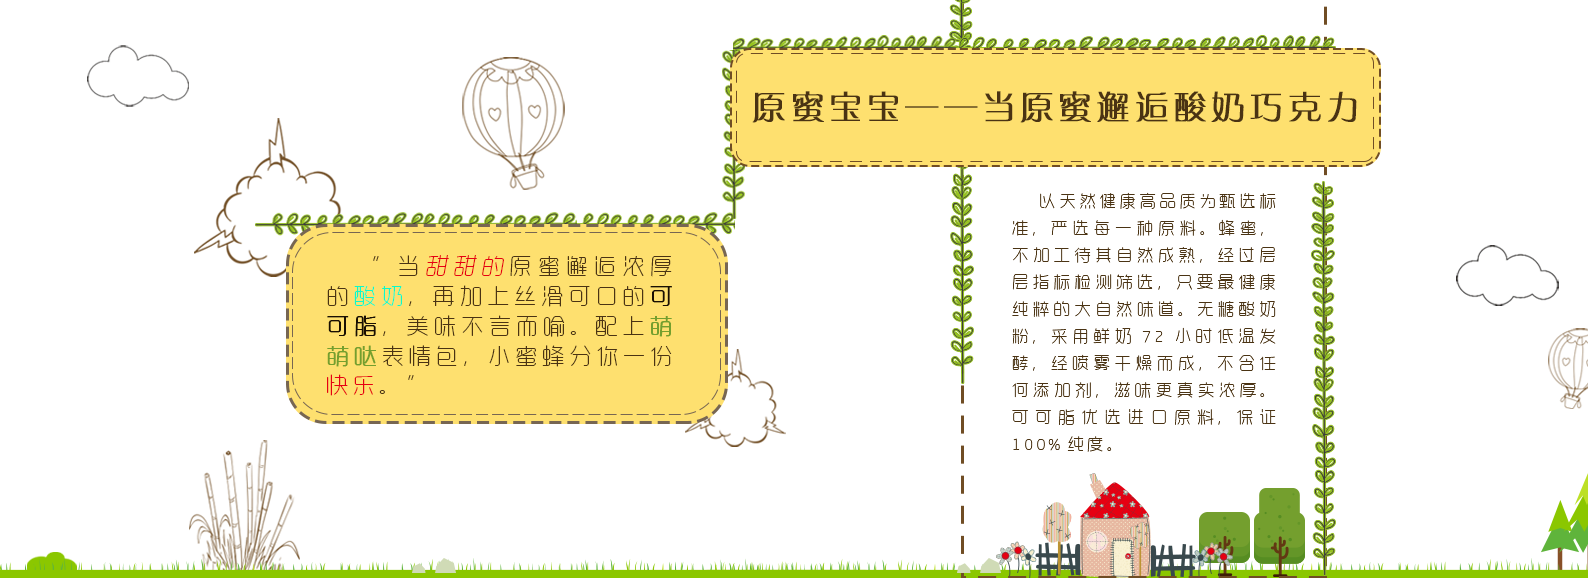
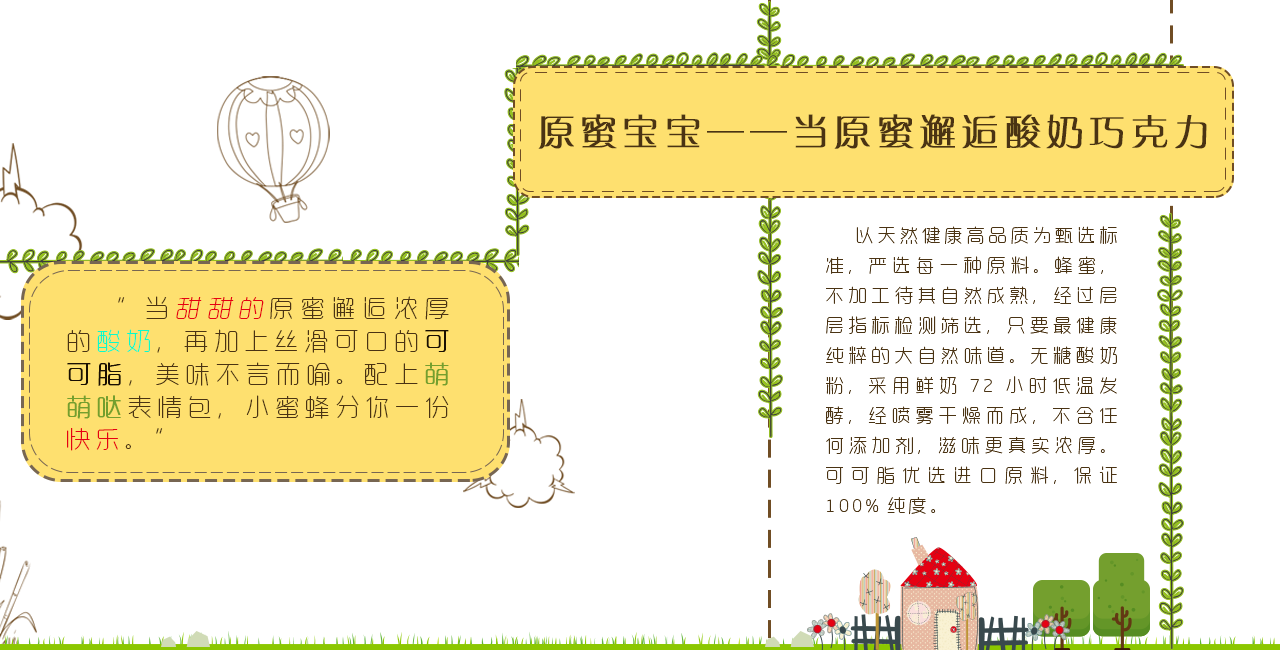
add

diff --git a/index.html b/index.html
@@ -199,9 +199,9 @@
     <div class="container-fluid">
         <div class="row">
             <div class="mygrid">
-                <div class="mycol myfluid" style=" background: url(./image/caodi.png)"></div>
+                <div class="mycol myfluid" style=" background: url(./image/left.png)"></div>
                 <div class="mycol myfixed"
-                     style="min-width:1280px;width:1588px;height: 578px; padding-top: 460px; background: url(image/section-bg2.png)">
+                     style="min-width:1280px;width:1280px;height: 650px; padding-top: 460px; background: url(image/section-bg2.png)">
                     <!--<div class="row">-->
                     <!--<div style="width: 500px ;height: 160px;margin-left: 800px">-->
                     <!--<h2 style="margin-bottom:20px;">-->
@@ -224,7 +224,7 @@
                     <!--</div>-->
                     <img src="image/bee.gif" style="margin-left: 190px;">
                 </div>
-                <div class="mycol myfluid" style="background: url(./image/caodi.png) "></div>
+                <div class="mycol myfluid" style="background: url(./image/right.png) "></div>
             </div>
 
         </div>
@@ -381,8 +381,8 @@
 
 </div>
 
-<div style="min-width:1280px;height:247px; width:100%;background-color:#fede6c; border:0">
-    <div style="width:1280px; height: 247px; margin:0 auto; background: url(./image/getiao2.png) center no-repeat; ">
+<div style="min-width:1280px;height:180px; width:100%;background-color:#fede6c; border:0">
+    <div style="width:1280px; height: 180px; margin:0 auto; background: url(./image/getiao2.png) center no-repeat; ">
 
     </div>
 </div>
